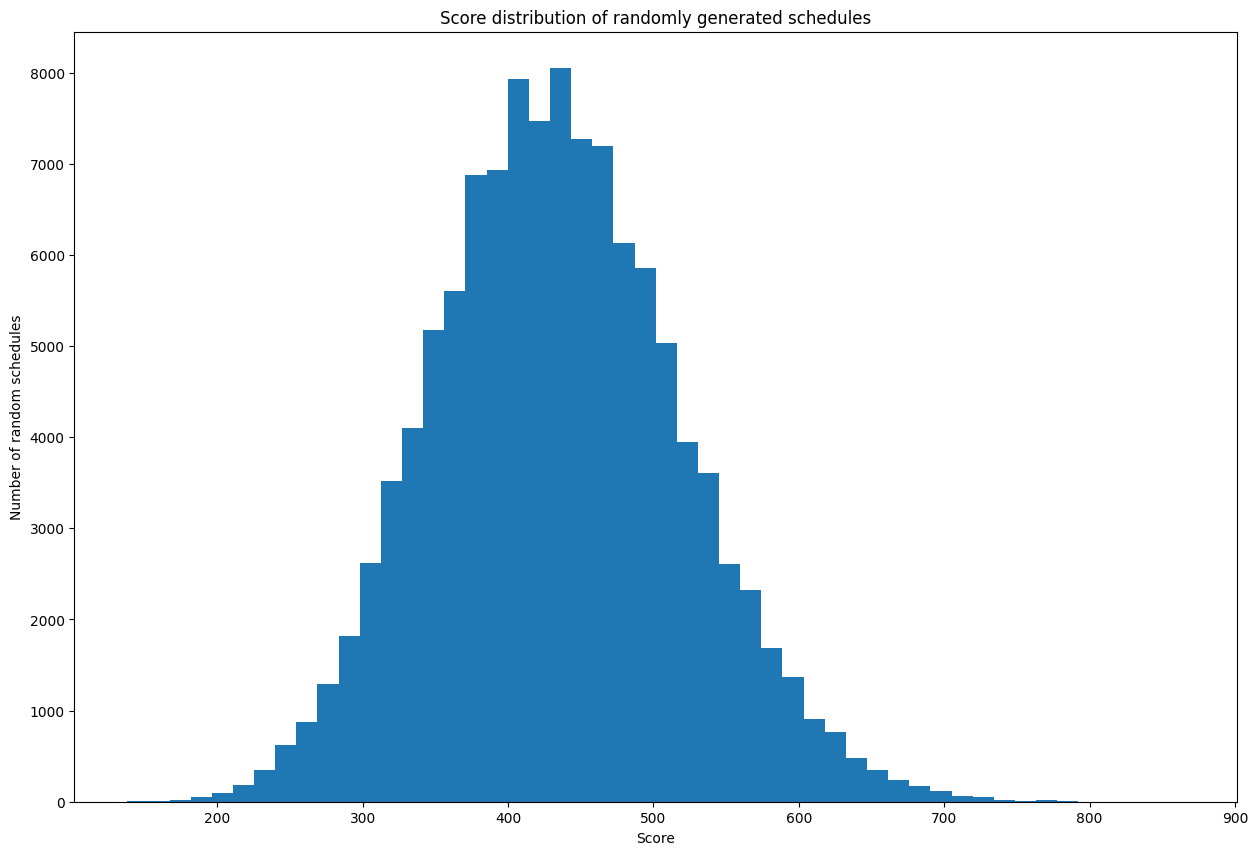
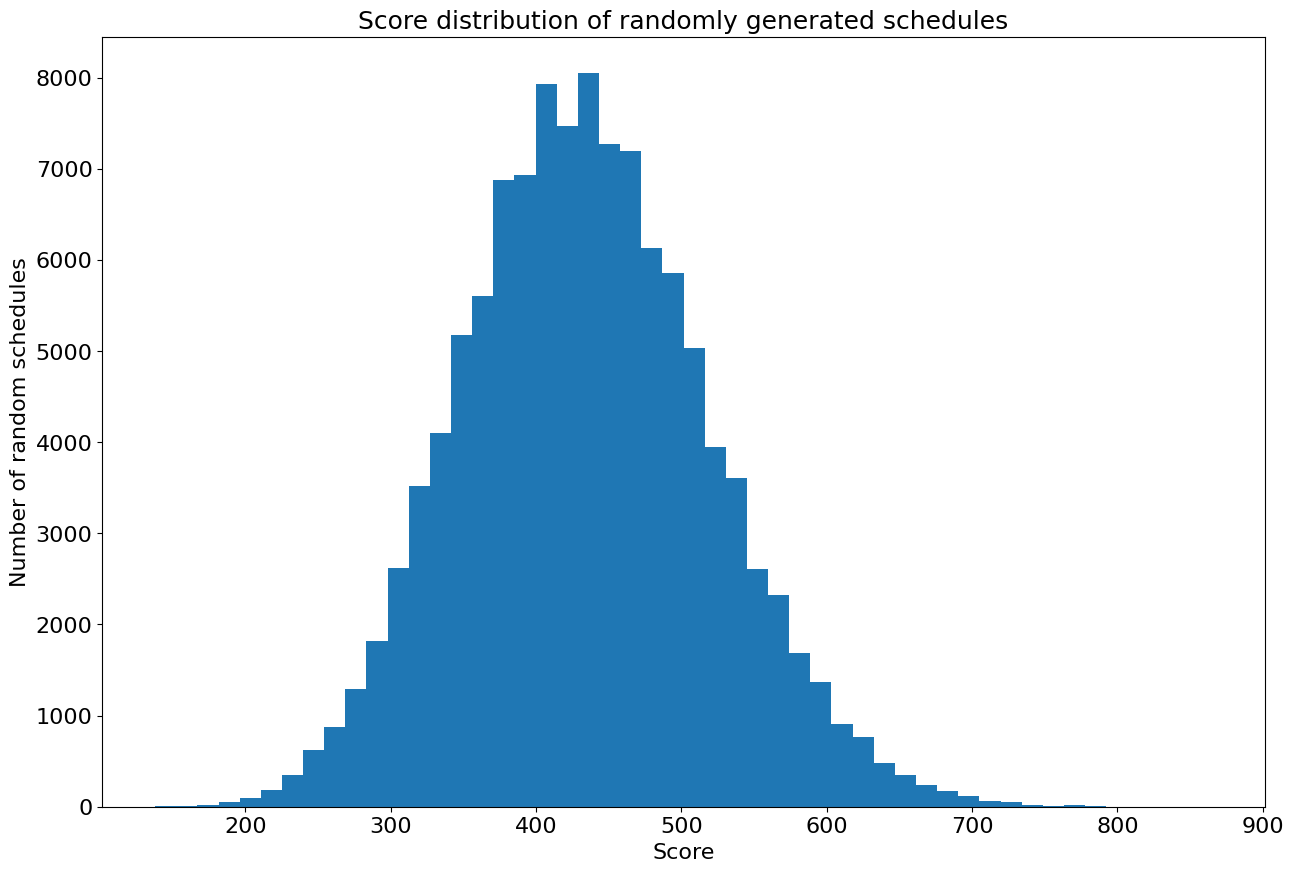
label sizing

diff --git a/libraries/helpers/score_histogram.py b/libraries/helpers/score_histogram.py
@@ -16,9 +16,11 @@ def plot_histogram(data_file='../../baseline.txt', output_path='../../images/', 
     
     plt.hist(random_scores, bins=50)
 
-    plt.ylabel('Number of random schedules')
-    plt.xlabel('Score')
-    plt.title("Score distribution of randomly generated schedules")
+    plt.ylabel('Number of random schedules', fontsize=16)
+    plt.xlabel('Score', fontsize=16)
+    plt.xticks(fontsize=16)
+    plt.yticks(fontsize=16)
+    plt.title("Score distribution of randomly generated schedules", fontsize=18)
     plt.show()
 
     if save:
